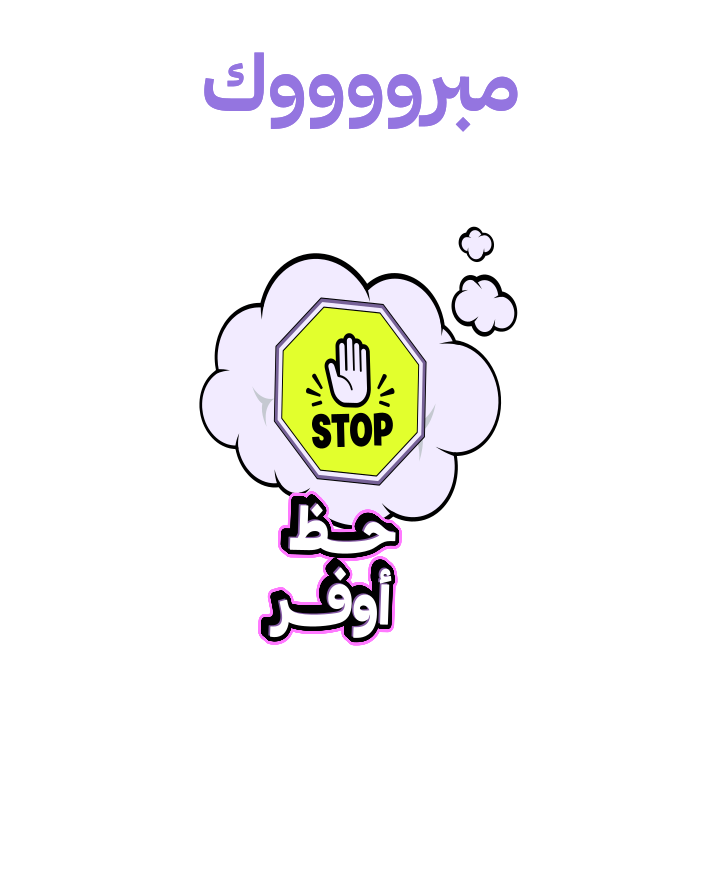
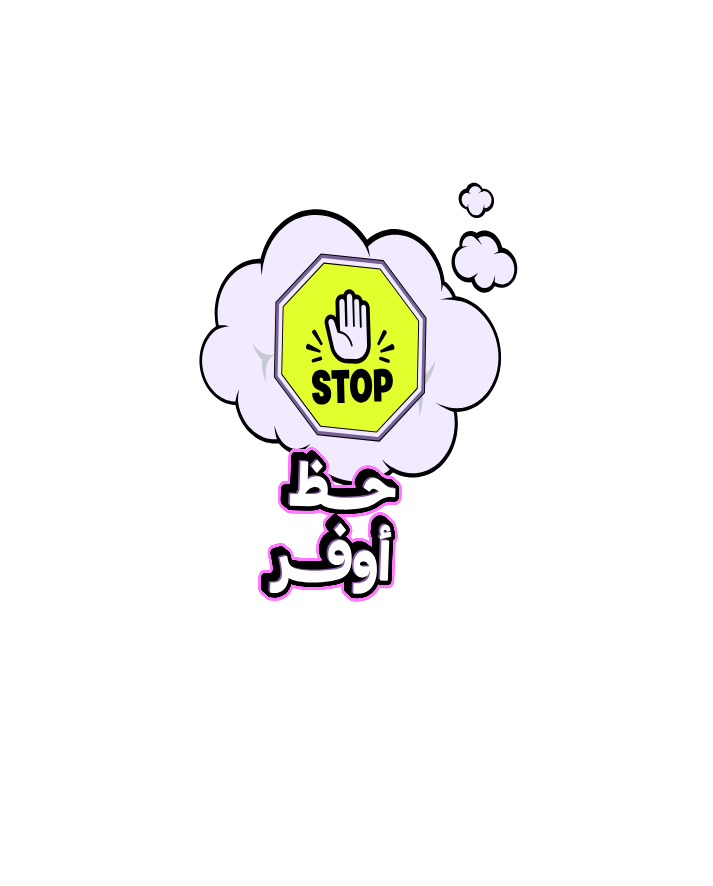
Update loss panel from NOV Black Friday Figma design

Changed region(s): [[0.2777, 0.1828, 0.7405, 0.7314], [0.2777, 0.0609, 0.7405, 0.1524]]

diff --git a/campaign.html b/campaign.html
@@ -15,7 +15,7 @@ const weDATA=[
  {id:"gift",n:"كود المفاجأة",c:"TEST-GIFT",i:7,w:4.9946,screen:1}
 ];
 const ASSET_BASE="https://raw.githubusercontent.com/khatib707/black-friday-da/main/assets/";
-const ASSETS={"overlay":"overlay.png","title":"title.png","pointer":"pointer.png","lever":"lever.png","wheel":"wheel.png?v=new-da-20261103","spin-label":"spin-label.png","sponsor-label":"sponsor-label.png","sponsors":"sponsors.png","shop-label":"shop-label.png","copy-icon":"copy-icon.png","result0":"result0.png","result1":"result1.png","result2":"result2.png","result3":"result3.png","result4":"result4.png","result5":"result5.png?v=new-da-20261103","result6":"result6.png","result7":"result7.png?v=new-da-20261103"};
+const ASSETS={"overlay":"overlay.png","title":"title.png","pointer":"pointer.png","lever":"lever.png","wheel":"wheel.png?v=new-da-20261103","spin-label":"spin-label.png","sponsor-label":"sponsor-label.png","sponsors":"sponsors.png","shop-label":"shop-label.png","copy-icon":"copy-icon.png","result0":"result0.png","result1":"result1.png","result2":"result2.png","result3":"result3.png","result4":"result4.png?v=nov-da-20261108","result5":"result5.png?v=new-da-20261103","result6":"result6.png","result7":"result7.png?v=new-da-20261103"};
 for(const key in ASSETS)ASSETS[key]=ASSET_BASE+ASSETS[key];
 const $=id=>document.getElementById(id);
 for(const [id,key] of Object.entries({shade:"overlay",title:"title",pointer:"pointer",lever:"lever",wheel:"wheel",spinLabel:"spin-label",sponsorLabel:"sponsor-label",sponsors:"sponsors",shopLabel:"shop-label",copyIcon:"copy-icon"}))$(id).src=ASSETS[key];

diff --git a/README.md b/README.md
@@ -4,6 +4,8 @@ Arabic RTL spin-the-wheel campaign for WebEngage. Paste `campaign.html` into Web
 
 The wheel, 5% discount panel (`assets/result5.png`), and 15% cashback panel (`assets/result7.png`) were updated from the supplied `NEW DA Black Friday.fig` design: https://www.figma.com/design/JPnM5p3JhZ1YnV8ErubSiM/NEW-DA-Black-Friday. The wheel retains the design's rotation so its segments match the existing prize selection. Updated image references include a cache version.
 
+The subsequent `NOV Black Friday DA.fig` update changes only the loss panel (`assets/result4.png`): it removes the congratulatory heading and moves the illustration up by 22 design pixels. The wheel and other artwork are unchanged from the previous file. The loss-panel image reference includes its own cache version.
+
 Prize probabilities and coupon logic are unchanged. Codes are still hardcoded `TEST-*` placeholders; Google Sheets / Apps Script allocation is not implemented here. The current shopping URL is `https://daralamirat.com.sa/`.
 
 Keep the HTML below 10,000 characters. Publishing changes to GitHub updates the hosted assets, but does not update HTML already pasted into WebEngage or deploy Google Apps Script.
